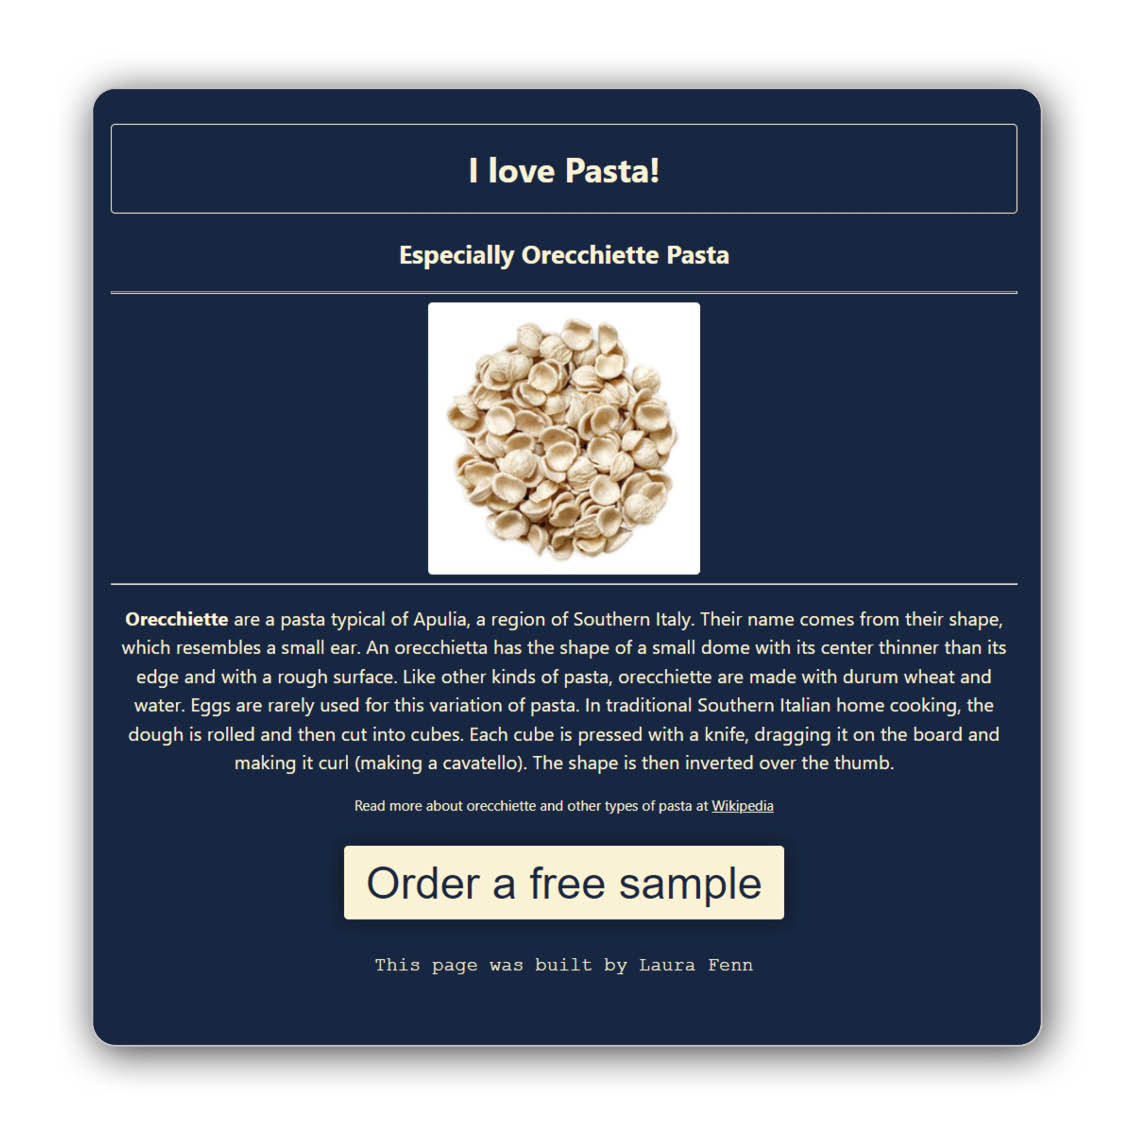
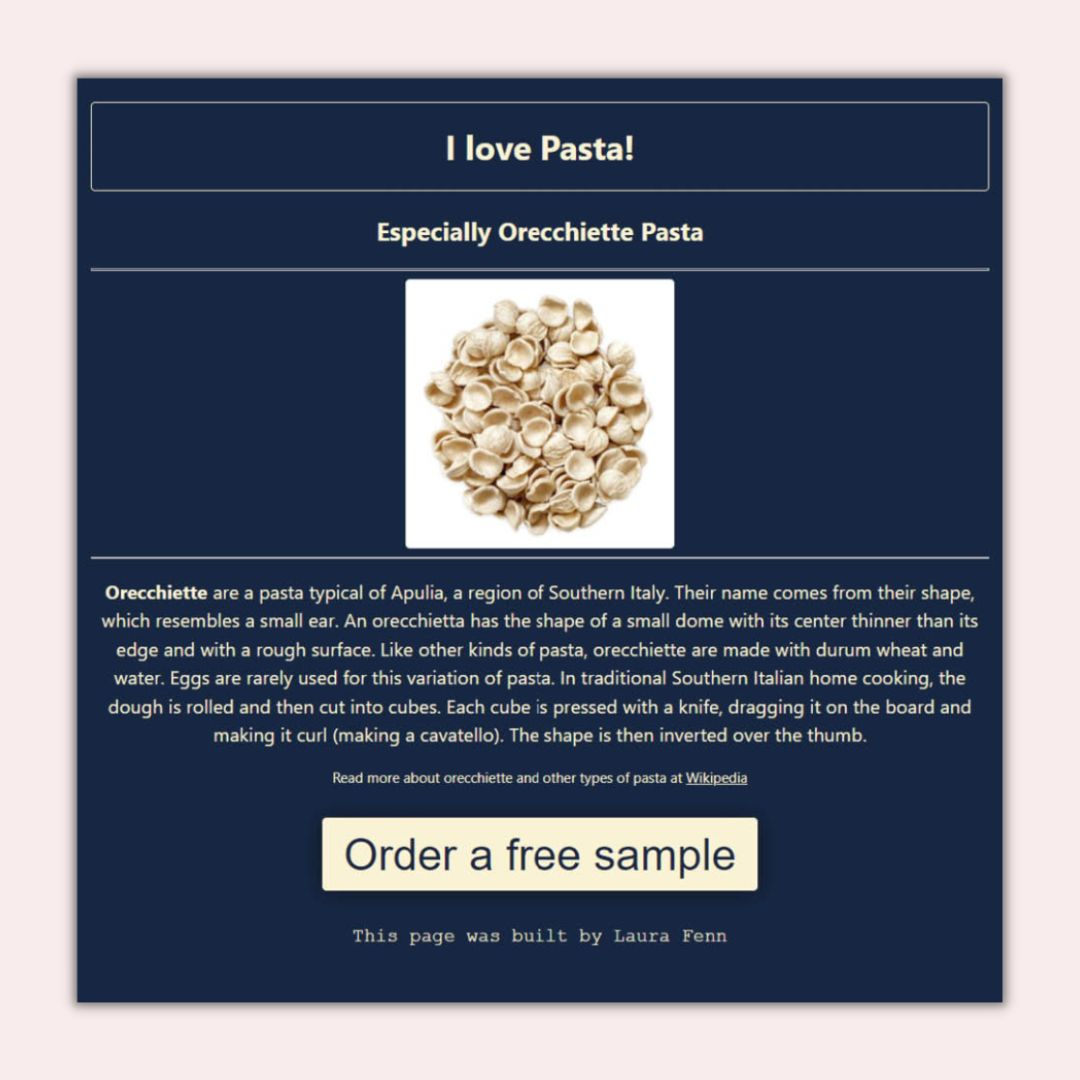
Corrected missing font awesome link and redesigned images and removed all example images

Changed region(s): [[0.0611, 0.0611, 0.9472, 0.9472]]

diff --git a/index.html b/index.html
@@ -4,7 +4,10 @@
     <meta charset="UTF-8" />
     <meta http-equiv="X-UA-Compatible" content="IE=edge" />
     <meta name="viewport" content="width=device-width, initial-scale=1.0" />
-    <meta name="description" content="Laura is a front-end developer based in the UK." />
+    <meta
+      name="description"
+      content="Laura is a front-end developer based in the UK."
+    />
     <link
       rel="stylesheet"
       href="https://cdn.jsdelivr.net/npm/bootstrap@4.4.1/dist/css/bootstrap.min.css"
@@ -17,11 +20,8 @@
     ></script>
     <link rel="preconnect" href="https://fonts.googleapis.com" />
     <link rel="preconnect" href="https://fonts.gstatic.com" crossorigin />
-    <link rel="preconnect" href="https://fonts.googleapis.com" />
-    <link rel="preconnect" href="https://fonts.gstatic.com" crossorigin />
-    <link rel="preconnect" href="https://fonts.gstatic.com" crossorigin />
     <link
-      href="https://fonts.googleapis.com/css2?family=Playfair+Display:ital,wght@0,400;0,500;0,600;0,700;0,800;0,900;1,400;1,500;1,600;1,700;1,800;1,900&family=Poppins:ital,wght@0,100;0,200;0,300;0,400;0,500;0,600;0,700;0,800;0,900;1,100;1,200;1,300;1,400;1,500;1,600;1,700;1,800;1,900&display=swap"
+      href="https://fonts.googleapis.com/css2?family=Inconsolata:wght@200;300;400;500;600;700;800;900&family=Poppins:ital,wght@0,100;0,200;0,300;0,400;0,500;0,600;0,700;0,800;0,900;1,100;1,200;1,300;1,400;1,500;1,600;1,700;1,800;1,900&display=swap"
       rel="stylesheet"
     />
     <title>Front-end Developer - Laura Fenn</title>
@@ -42,10 +42,7 @@
     <div class="hero">
       <h1>Laura Fenn</h1>
       <div>
-        <h2 class="mb-5">
-          Front-end developer and Internal Communications Specialist based in
-          Folkestone, UK.
-        </h2>
+        <h2 class="mb-5">Front-end developer based in Folkestone, UK.</h2>
       </div>
       <a href="work.html" class="btn btn-branding">View my work</a>
     </div>
@@ -61,9 +58,8 @@
           <div class="project-description">
             <h2 class="mb-5">Pasta project</h2>
             <p class="mb-5 text-muted">
-              This was my first project on the SheCodes Basics workshop,
-              mastering the basics of page structure and styling. (more content
-              and my own image to be added here)
+              Mastering the basics of HTML, CSS and JS on the SheCodes Basics
+              workshop.
             </p>
             <a href="" class="btn btn-branding-outline">Learn more</a>
           </div>
@@ -74,9 +70,8 @@
           <div class="project-description">
             <h2 class="mb-5">Weather project</h2>
             <p class="mb-5 text-muted">
-              Lorem ipsum dolor sit amet, consectetur adipiscing elit, sed do
-              eiusmod tempor incididunt ut labore et dolore magna aliqua. (more
-              content and my own image to be added here)
+              A real-time weather app using API. Built throughout the SheCodes
+              Plus workshop.
             </p>
             <a href="" class="btn btn-branding-outline">Learn more</a>
           </div>
@@ -89,39 +84,21 @@
           />
         </div>
       </div>
-      <div class="row mb-5">
-        <div class="col d-none d-lg-block">
-          <img
-            src="images/yoga.png"
-            class="img-fluid"
-            alt="woman in yoga position"
-          />
-        </div>
-        <div class="col">
-          <div class="project-description">
-            <h2 class="mb-5">Yoga project</h2>
-            <p class="mb-5 text-muted">
-              Lorem ipsum dolor sit amet, consectetur adipiscing elit, sed do
-              eiusmod tempor incididunt ut labore et dolore magna aliqua. (more
-              content and my own image to be added here)
-            </p>
-            <a href="" class="btn btn-branding-outline">Learn more</a>
-          </div>
-        </div>
-      </div>
       <footer>
         <div class="contact-box justify-content-between mb-5 d-none d-md-flex">
           <div class="enquiry">
             <h3>Work Enquiry</h3>
-            <p class="text-muted">Let's work together</p>
+            <p class="text-muted">Get in touch; I'd love to hear from you!</p>
           </div>
-            <div>
-            <a href="mailto:lauradfenn:gmail.com" class="btn btn-branding mt-2">Contact Me</a>
-            </div>
+          <div>
+            <a href="mailto:lauradfenn:gmail.com" class="btn btn-branding mt-2"
+              >Contact Me</a
+            >
+          </div>
         </div>
         <div class="social-links d-flex justify-content-center mb-5">
           <a href="mailto:lauradfenn@gmail.com" target="_blank"
-            ><i class="fa-solid fa-envelope"></i></i
+            ><i class="fa-solid fa-envelope"></i
           ></a>
           <a href="https://www.linkedin.com/in/laura-d-fenn/" target="_blank"
             ><i class="fa-brands fa-linkedin-in"></i
@@ -137,4 +114,3 @@
     </div>
   </body>
 </html>
-

diff --git a/work.html b/work.html
@@ -4,6 +4,10 @@
     <meta charset="UTF-8" />
     <meta http-equiv="X-UA-Compatible" content="IE=edge" />
     <meta name="viewport" content="width=device-width, initial-scale=1.0" />
+    <meta
+      name="description"
+      content="Laura is a front-end developer based in the UK."
+    />
     <link
       rel="stylesheet"
       href="https://cdn.jsdelivr.net/npm/bootstrap@4.4.1/dist/css/bootstrap.min.css"
@@ -16,14 +20,11 @@
     ></script>
     <link rel="preconnect" href="https://fonts.googleapis.com" />
     <link rel="preconnect" href="https://fonts.gstatic.com" crossorigin />
-    <link rel="preconnect" href="https://fonts.googleapis.com" />
-    <link rel="preconnect" href="https://fonts.gstatic.com" crossorigin />
-    <link rel="preconnect" href="https://fonts.gstatic.com" crossorigin />
     <link
-      href="https://fonts.googleapis.com/css2?family=Playfair+Display:ital,wght@0,400;0,500;0,600;0,700;0,800;0,900;1,400;1,500;1,600;1,700;1,800;1,900&family=Poppins:ital,wght@0,100;0,200;0,300;0,400;0,500;0,600;0,700;0,800;0,900;1,100;1,200;1,300;1,400;1,500;1,600;1,700;1,800;1,900&display=swap"
+      href="https://fonts.googleapis.com/css2?family=Inconsolata:wght@200;300;400;500;600;700;800;900&family=Poppins:ital,wght@0,100;0,200;0,300;0,400;0,500;0,600;0,700;0,800;0,900;1,100;1,200;1,300;1,400;1,500;1,600;1,700;1,800;1,900&display=swap"
       rel="stylesheet"
     />
-    <title>Laura Fenn</title>
+    <title>Front-end Developer - Laura Fenn</title>
     <link rel="stylesheet" href="styles/styles.css" />
   </head>
   <body>
@@ -47,7 +48,11 @@
           <div class="col-md-6 mb-4">
             <img src="images/pasta.jpg" class="img-fluid mb-3 rounded" alt="" />
             <h3 class="text-center m-0">Pasta project</h3>
-            <p class="text-center text-muted">Built with HTML and CSS</p>
+            <p class="text-center text-muted">
+              This was my first project on the SheCodes Basics workshop,
+              mastering the basics of HTML, CSS and JS. Yes, I really did create
+              a page deicated to pasta...!
+            </p>
           </div>
           <div class="col-md-6 mb-4">
             <img
@@ -56,35 +61,46 @@
               alt=""
             />
             <h3 class="text-center m-0">Weather App project</h3>
+            <p class="text-center text-muted">
+              Search any city for realtime weather updates. Built with HTML,
+              CSS, Javascript and Bootstrap with integrated API.
+            </p>
+          </div>
+          <div class="col-md-6 mb-4">
+            <img
+              src="images/portfolio.png"
+              class="img-fluid mb-3 rounded"
+              alt=""
+            />
+            <h3 class="text-center m-0">Portfolio project</h3>
             <p class="text-center text-muted">Built with HTML, CSS and React</p>
           </div>
           <div class="col-md-6 mb-4">
-            <img src="images/yoga.png" class="img-fluid mb-3 rounded" alt="" />
-            <h3 class="text-center m-0">Yoga project</h3>
-            <p class="text-center text-muted">Built with HTML, CSS and React</p>
-          </div>
-          <div class="col-md-6 mb-4">
-            <img src="images/yoga.png" class="img-fluid mb-3 rounded" alt="" />
-            <h3 class="text-center m-0">Yoga project</h3>
-            <p class="text-center text-muted">Built with HTML, CSS and React</p>
+            <img
+              src="images/template.jpg"
+              class="img-fluid mb-3 rounded"
+              alt=""
+            />
+            <h3 class="text-center m-0">Example project</h3>
+            <p class="text-center text-muted">Built with xx xx xx /p></p>
           </div>
         </div>
       </div>
       <footer>
-        <div
-          class="contact-box justify-content-between mb-5 d-none d-md-flex"
-        >
+        <div class="contact-box justify-content-between mb-5 d-none d-md-flex">
           <div>
             <h3>Work Enquiry</h3>
-            <p class="text-muted">Let's work together</p>
+            <p class="text-muted">Get in touch; I'd love to hear from you!</p>
           </div>
           <div>
-            <a href="mailto:lauradfenn:gmail.com" class="btn btn-branding mt-2">Contact Me</a>
+            <a href="mailto:lauradfenn:gmail.com" class="btn btn-branding mt-2"
+              >Contact Me</a
+            >
           </div>
         </div>
         <div class="social-links d-flex justify-content-center mb-5">
           <a href="mailto:lauradfenn@gmail.com" target="_blank"
-            ><i class="fa-solid fa-envelope"></i></i
+            ><i class="fa-solid fa-envelope"></i
           ></a>
           <a href="https://www.linkedin.com/in/laura-d-fenn/" target="_blank"
             ><i class="fa-brands fa-linkedin-in"></i

diff --git a/about.html b/about.html
@@ -4,6 +4,10 @@
     <meta charset="UTF-8" />
     <meta http-equiv="X-UA-Compatible" content="IE=edge" />
     <meta name="viewport" content="width=device-width, initial-scale=1.0" />
+    <meta
+      name="description"
+      content="Laura is a front-end developer based in the UK."
+    />
     <link
       rel="stylesheet"
       href="https://cdn.jsdelivr.net/npm/bootstrap@4.4.1/dist/css/bootstrap.min.css"
@@ -16,14 +20,11 @@
     ></script>
     <link rel="preconnect" href="https://fonts.googleapis.com" />
     <link rel="preconnect" href="https://fonts.gstatic.com" crossorigin />
-    <link rel="preconnect" href="https://fonts.googleapis.com" />
-    <link rel="preconnect" href="https://fonts.gstatic.com" crossorigin />
-    <link rel="preconnect" href="https://fonts.gstatic.com" crossorigin />
     <link
-      href="https://fonts.googleapis.com/css2?family=Playfair+Display:ital,wght@0,400;0,500;0,600;0,700;0,800;0,900;1,400;1,500;1,600;1,700;1,800;1,900&family=Poppins:ital,wght@0,100;0,200;0,300;0,400;0,500;0,600;0,700;0,800;0,900;1,100;1,200;1,300;1,400;1,500;1,600;1,700;1,800;1,900&display=swap"
+      href="https://fonts.googleapis.com/css2?family=Inconsolata:wght@200;300;400;500;600;700;800;900&family=Poppins:ital,wght@0,100;0,200;0,300;0,400;0,500;0,600;0,700;0,800;0,900;1,100;1,200;1,300;1,400;1,500;1,600;1,700;1,800;1,900&display=swap"
       rel="stylesheet"
     />
-    <title>Laura Fenn</title>
+    <title>Front-end Developer - Laura Fenn</title>
     <link rel="stylesheet" href="styles/styles.css" />
   </head>
   <body>
@@ -44,13 +45,13 @@
           <div class="content">
             <h1 class="mb-4">About Me</h1>
             <h2 class="mb-4">Front-end developer based in the UK.</h2>
-            <p class="mb-4">
-              Lorem ipsum dolor sit amet, consectetur adipiscing elit, sed do
-              eiusmod tempor incididunt ut labore et dolore magna aliqua. Lorem
-              ipsum dolor sit amet, consectetur adipiscing elit, sed do eiusmod
-              tempor incididunt ut labore et dolore magna aliqua. Lorem ipsum
-              dolor sit amet, consectetur adipiscing elit, sed do eiusmod tempor
-              incididunt ut labore et dolore magna aliqua.
+            <p class="mb-4 text-muted">
+              My name is Laura and I'm a new front-end developer based in
+              Folkestone, UK. I've been learning to code with SheCodes since
+              2021. I am an Internal Communications Specialist by day and wanted
+              to learn a new skill that could also help me develop in my current
+              role, as the majority of communication channels I work with are
+              web-based.
             </p>
             <a href="/work.html" class="btn btn-branding">View my work</a>
           </div>
@@ -65,21 +66,21 @@
       </div>
     </div>
     <div class="contact-container container">
-           <footer>
-        <div
-          class="contact-box justify-content-between mb-5 d-none d-md-flex"
-        >
+      <footer>
+        <div class="contact-box justify-content-between mb-5 d-none d-md-flex">
           <div>
             <h3>Work Enquiry</h3>
-            <p class="text-muted">Let's work together</p>
+            <p class="text-muted">Get in touch; I'd love to hear from you!</p>
           </div>
           <div>
-            <a href="mailto:lauradfenn:gmail.com" class="btn btn-branding mt-2">Contact Me</a>
+            <a href="mailto:lauradfenn:gmail.com" class="btn btn-branding mt-2"
+              >Contact Me</a
+            >
           </div>
         </div>
         <div class="social-links d-flex justify-content-center mb-5">
           <a href="mailto:lauradfenn@gmail.com" target="_blank"
-            ><i class="fa-solid fa-envelope"></i></i
+            ><i class="fa-solid fa-envelope"></i
           ></a>
           <a href="https://www.linkedin.com/in/laura-d-fenn/" target="_blank"
             ><i class="fa-brands fa-linkedin-in"></i

diff --git a/contact.html b/contact.html
@@ -4,6 +4,10 @@
     <meta charset="UTF-8" />
     <meta http-equiv="X-UA-Compatible" content="IE=edge" />
     <meta name="viewport" content="width=device-width, initial-scale=1.0" />
+    <meta
+      name="description"
+      content="Laura is a front-end developer based in the UK."
+    />
     <link
       rel="stylesheet"
       href="https://cdn.jsdelivr.net/npm/bootstrap@4.4.1/dist/css/bootstrap.min.css"
@@ -16,14 +20,11 @@
     ></script>
     <link rel="preconnect" href="https://fonts.googleapis.com" />
     <link rel="preconnect" href="https://fonts.gstatic.com" crossorigin />
-    <link rel="preconnect" href="https://fonts.googleapis.com" />
-    <link rel="preconnect" href="https://fonts.gstatic.com" crossorigin />
-    <link rel="preconnect" href="https://fonts.gstatic.com" crossorigin />
     <link
-      href="https://fonts.googleapis.com/css2?family=Playfair+Display:ital,wght@0,400;0,500;0,600;0,700;0,800;0,900;1,400;1,500;1,600;1,700;1,800;1,900&family=Poppins:ital,wght@0,100;0,200;0,300;0,400;0,500;0,600;0,700;0,800;0,900;1,100;1,200;1,300;1,400;1,500;1,600;1,700;1,800;1,900&display=swap"
+      href="https://fonts.googleapis.com/css2?family=Inconsolata:wght@200;300;400;500;600;700;800;900&family=Poppins:ital,wght@0,100;0,200;0,300;0,400;0,500;0,600;0,700;0,800;0,900;1,100;1,200;1,300;1,400;1,500;1,600;1,700;1,800;1,900&display=swap"
       rel="stylesheet"
     />
-    <title>Laura Fenn</title>
+    <title>Front-end Developer - Laura Fenn</title>
     <link rel="stylesheet" href="styles/styles.css" />
   </head>
   <body>
@@ -34,7 +35,7 @@
           <li><a href="/">Home</a></li>
           <li><a href="/about.html">About</a></li>
           <li><a href="/work.html">Work</a></li>
-          <li class="active" ><a href="/contact.html">Contact</a></li>
+          <li class="active"><a href="/contact.html">Contact</a></li>
         </ul>
       </nav>
     </div>
@@ -44,13 +45,18 @@
           <div class="content">
             <h1 class="mb-4">Contact Me</h1>
             <h2 class="mb-4">I'd love to hear from you!</h2>
-            <p class="mb-4">
-              Lorem ipsum dolor sit amet, consectetur adipiscing elit, sed do
-              eiusmod tempor incididunt ut labore et dolore magna aliqua. Lorem
-              ipsum dolor sit amet, consectetur adipiscing elit, sed do eiusmod
-              tempor incididunt ut labore et dolore magna aliqua. 
+            <p class="mb-4 text-muted">
+              If you would like to get in touch about any of my work or
+              opportunities, you can drop me an email by click on the button,
+              below. You can also connect with me on LinkedIn view my
+              open-source code on GitHub and follow me on Twitter.
             </p>
-            <a href="mailto:lauradfenn@gmail.com" target="_blank" class="btn btn-branding">Contact Me</a>
+            <a
+              href="mailto:lauradfenn@gmail.com"
+              target="_blank"
+              class="btn btn-branding"
+              >Contact Me</a
+            >
           </div>
         </div>
         <div class="col-lg-6">
@@ -63,11 +69,10 @@
       </div>
     </div>
     <div class="contact-container container">
-           <footer>
-      
+      <footer>
         <div class="social-links d-flex justify-content-center mb-5">
           <a href="mailto:lauradfenn@gmail.com" target="_blank"
-            ><i class="fa-solid fa-envelope"></i></i
+            ><i class="fa-solid fa-envelope"></i
           ></a>
           <a href="https://www.linkedin.com/in/laura-d-fenn/" target="_blank"
             ><i class="fa-brands fa-linkedin-in"></i

diff --git a/styles/styles.css b/styles/styles.css
@@ -1,8 +1,8 @@
 :root {
   --branding-color: #62929a;
   --secondary-branding-color: #f9ecec;
-  --heading-font-family: "Playfair Display", serif;
-  --default-font-family: "Poppins", sans-serif;
+  --heading-font-family: "Poppins", sans-serif;
+  --default-font-family: "Inconsolata", monospace;
 }
 
 h1,
@@ -12,7 +12,7 @@ h4,
 h5,
 h6 {
   color: black;
-  font-weight: bold;
+  font-weight: 500;
   font-family: var(--heading-font-family);
 }
 
@@ -42,7 +42,7 @@ p {
   font-size: 36px;
   font-weight: bold;
   margin: 0;
-  color: #272142;
+  color: black;
 }
 
 .hero h2 {
